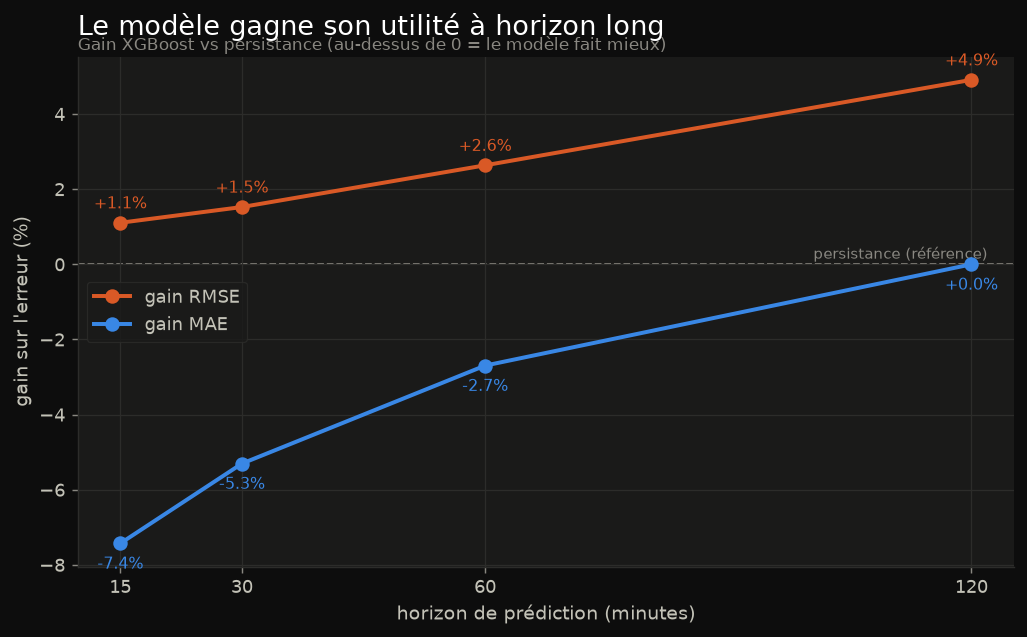
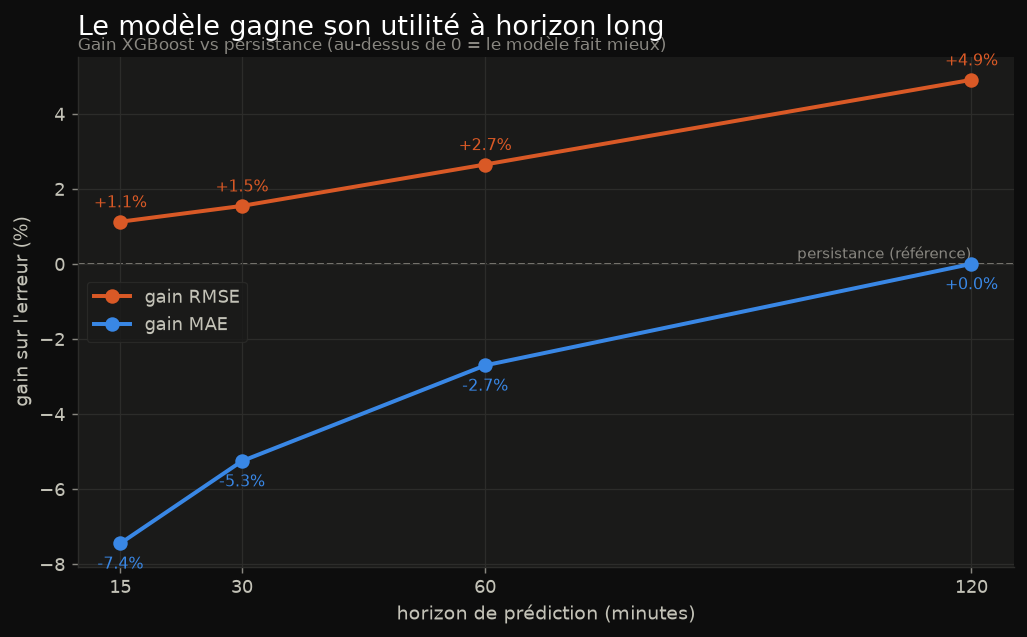
feat(ml): versioned metrics files, lift curve drawn from metrics_xgb.json
train_baseline.py and train_xgb.py now write ml/results/metrics_<run>.json
(dataset size, period, split parameters, per-horizon MAE/RMSE) next to their
console output; both files are versioned. make_lift() reads the XGBoost file
instead of sixteen hard-coded constants, and fails clearly when it is missing.
Values recomputed on the July dataset are identical to the July run.

diff --git a/ml/train_xgb.py b/ml/train_xgb.py
@@ -6,6 +6,9 @@ baseline (common.py), et on affiche le gain vs persistance. Un modèle qui ne ba
 nettement la baseline ne mérite pas la prod (§6.1).
 
 Sérialisation : ml/models/xgb_<cible>.json (format natif XGBoost, rechargé par predict.py).
+Métriques     : ml/results/metrics_xgb.json (versionné ; source du tableau et de la courbe
+                de lift du README via docs/make_figures.py). La persistance y est recalculée
+                sur le MÊME jeu de test que le modèle -> comparaison sur les mêmes lignes.
 
 Lancement :
   python ml/train_xgb.py                                       # dataset réel
@@ -19,7 +22,15 @@ import pandas as pd
 from xgboost import XGBRegressor
 
 sys.path.insert(0, str(Path(__file__).resolve().parent))
-from common import FEATURE_COLS, HORIZONS, mae_rmse, temporal_split   # noqa: E402
+from common import (  # noqa: E402
+    FEATURE_COLS,
+    HORIZONS,
+    RESULTS_DIR,
+    dataset_summary,
+    mae_rmse,
+    temporal_split,
+    write_metrics,
+)
 
 DATA_DEFAULT = Path(__file__).resolve().parent / "data" / "dataset.parquet"
 MODELS_DIR = Path(__file__).resolve().parent / "models"
@@ -39,13 +50,16 @@ XGB_PARAMS = dict(
 def main() -> None:
     ap = argparse.ArgumentParser()
     ap.add_argument("--data", default=str(DATA_DEFAULT))
+    ap.add_argument("--results-dir", default=str(RESULTS_DIR))
     a = ap.parse_args()
+    rows = []                                        # une entrée par horizon -> JSON
 
     df = pd.read_parquet(a.data)
     MODELS_DIR.mkdir(parents=True, exist_ok=True)
     print(f"[XGB] dataset : {len(df):,} lignes | {df['ts'].min()} -> {df['ts'].max()}\n")
 
-    header = f"{'horizon':<8}{'MAE_base':>10}{'MAE_xgb':>10}{'RMSE_base':>11}{'RMSE_xgb':>10}{'gain_MAE':>10}"
+    header = (f"{'horizon':<8}{'MAE_base':>10}{'MAE_xgb':>10}"
+              f"{'RMSE_base':>11}{'RMSE_xgb':>10}{'gain_MAE':>10}")
     print(header)
     print("-" * len(header))
 
@@ -65,15 +79,26 @@ def main() -> None:
         mae_x, rmse_x = mae_rmse(test[col], pred)
         mae_b, rmse_b = mae_rmse(test[col], test["bikes"])   # baseline persistance
         gain = 100 * (mae_b - mae_x) / mae_b                 # % d'amélioration du MAE
+        gain_rmse = 100 * (rmse_b - rmse_x) / rmse_b
 
         print(f"{label:<8}{mae_b:>10.3f}{mae_x:>10.3f}{rmse_b:>11.3f}{rmse_x:>10.3f}{gain:>9.1f}%")
+        rows.append({"horizon": label, "target": col,
+                     "n_train": int(len(train)), "n_test": int(len(test)),
+                     "mae_persistence": round(float(mae_b), 4),
+                     "rmse_persistence": round(float(rmse_b), 4),
+                     "mae_xgb": round(float(mae_x), 4), "rmse_xgb": round(float(rmse_x), 4),
+                     "gain_mae_pct": round(float(gain), 2),
+                     "gain_rmse_pct": round(float(gain_rmse), 2)})
 
         # Sérialisation du modèle (format natif XGBoost).
         out = MODELS_DIR / f"xgb_{col}.json"
         model.save_model(out)
         print(f"         -> modèle sauvegardé : {out}")
 
-    print("\n[XGB] gain_MAE > 0 = XGBoost bat la persistance. Négatif/nul = inutile (§6.1).")
+    out = write_metrics("xgb", dataset_summary(df, a.data), rows, a.results_dir,
+                        extra={"model": "XGBRegressor", "params": XGB_PARAMS})
+    print(f"\n[XGB] métriques écrites : {out}")
+    print("[XGB] gain_MAE > 0 = XGBoost bat la persistance. Négatif/nul = inutile (§6.1).")
 
 
 if __name__ == "__main__":

diff --git a/docs/make_figures.py b/docs/make_figures.py
@@ -6,7 +6,8 @@ Sorties :
 
 Prérequis : conteneur postgres démarré (docker compose up -d postgres), matplotlib installé
 (pip install matplotlib — dépendance d'ASSET, pas de runtime). Lancement :
-  python docs/make_figures.py
+  python docs/make_figures.py          # les deux figures
+  python docs/make_figures.py lift     # courbe de lift seule (lit ml/results/, sans Postgres)
 """
 import json
 import os
@@ -23,6 +24,7 @@ from matplotlib.colors import LinearSegmentedColormap  # noqa: E402
 
 ROOT = Path(__file__).resolve().parent.parent
 DOCS = ROOT / "docs"
+METRICS = ROOT / "ml" / "results" / "metrics_xgb.json"   # écrit par ml/train_xgb.py
 load_dotenv(ROOT / ".env")
 
 # --- Thème sombre (aligné sur la palette dataviz + le dashboard Streamlit) ---
@@ -87,13 +89,21 @@ def make_map() -> None:
     print(f"[FIG] {out} ({len(fill)} stations)")
 
 
-def make_lift() -> None:
-    """Courbe de lift : gain % du XGBoost sur la persistance, par horizon."""
-    horizon = np.array([15, 30, 60, 120])
-    mae_base = np.array([0.754, 1.188, 1.818, 2.764])
-    mae_xgb = np.array([0.810, 1.251, 1.867, 2.764])
-    rmse_base = np.array([1.446, 2.098, 3.035, 4.419])
-    rmse_xgb = np.array([1.430, 2.066, 2.955, 4.202])
+def make_lift(metrics_path: Path = METRICS) -> None:
+    """Courbe de lift : gain % du XGBoost sur la persistance, par horizon.
+
+    Source UNIQUE des chiffres : ml/results/metrics_xgb.json, écrit par ml/train_xgb.py
+    (versionné). Aucune valeur en dur ici : la figure et le tableau du README lisent le
+    même fichier, donc ne peuvent pas diverger.
+    """
+    if not metrics_path.exists():
+        raise SystemExit(f"[FIG] {metrics_path} manquant : lancer `python ml/train_xgb.py`")
+    rows = json.loads(metrics_path.read_text(encoding="utf-8"))["horizons"]
+    horizon = np.array([int(r["horizon"].removeprefix("t+")) for r in rows])
+    mae_base = np.array([r["mae_persistence"] for r in rows])
+    mae_xgb = np.array([r["mae_xgb"] for r in rows])
+    rmse_base = np.array([r["rmse_persistence"] for r in rows])
+    rmse_xgb = np.array([r["rmse_xgb"] for r in rows])
     gain_mae = 100 * (mae_base - mae_xgb) / mae_base
     gain_rmse = 100 * (rmse_base - rmse_xgb) / rmse_base
 
@@ -101,7 +111,8 @@ def make_lift() -> None:
     fig.patch.set_facecolor(PAGE)
     ax.set_facecolor(SURFACE)
     ax.axhline(0, color=MUTED, lw=1, ls="--", zorder=1)      # persistance = référence
-    ax.text(122, 0.15, "persistance (référence)", color=MUTED, fontsize=8.5, ha="right")
+    ax.text(horizon[-1], 0.15, "persistance (référence)", color=MUTED, fontsize=8.5,
+            ha="right")
     ax.plot(horizon, gain_rmse, "-o", color=ORANGE, lw=2.2, ms=7, label="gain RMSE", zorder=3)
     ax.plot(horizon, gain_mae, "-o", color=BLUE, lw=2.2, ms=7, label="gain MAE", zorder=3)
     for x, y in zip(horizon, gain_rmse):
@@ -130,9 +141,13 @@ def make_lift() -> None:
     fig.tight_layout()
     out = DOCS / "lift_curve.png"
     fig.savefig(out, facecolor=PAGE, bbox_inches="tight")
-    print(f"[FIG] {out}")
+    print(f"[FIG] {out} (source : {metrics_path.relative_to(ROOT)})")
 
 
 if __name__ == "__main__":
-    make_map()
-    make_lift()
+    import sys
+    only = sys.argv[1:]                    # ex. `python docs/make_figures.py lift` (sans Postgres)
+    if not only or "map" in only:
+        make_map()
+    if not only or "lift" in only:
+        make_lift()

diff --git a/ml/common.py b/ml/common.py
@@ -3,6 +3,10 @@
 Centralisé pour GARANTIR que la baseline et tous les modèles utilisent EXACTEMENT le même
 découpage train/test et la même liste de features -> comparaison honnête (§6.4).
 """
+import json
+from datetime import datetime, timezone
+from pathlib import Path
+
 import pandas as pd
 from sklearn.metrics import mean_absolute_error, root_mean_squared_error
 
@@ -42,7 +46,7 @@ def temporal_split(df: pd.DataFrame, test_fraction: float = TEST_FRACTION,
     """
     df = df.sort_values("ts")
     cut = df["ts"].quantile(1 - test_fraction)
-    gap = pd.Timedelta(f"{gap_min}min")
+    gap = pd.Timedelta(minutes=gap_min)
     train = df[df["ts"] <= cut - gap]
     test = df[df["ts"] > cut]
     return train, test, cut
@@ -51,3 +55,45 @@ def temporal_split(df: pd.DataFrame, test_fraction: float = TEST_FRACTION,
 def mae_rmse(y_true, y_pred):
     """Renvoie (MAE, RMSE) — §6.2."""
     return mean_absolute_error(y_true, y_pred), root_mean_squared_error(y_true, y_pred)
+
+
+# --- Métriques versionnables (ml/results/metrics_<run>.json) ------------------
+# Les scripts d'entraînement affichent leurs métriques ET les écrivent ici : ce fichier
+# est l'unique source des chiffres du README (tableau + courbe de lift, docs/make_figures.py).
+RESULTS_DIR = Path(__file__).resolve().parent / "results"
+
+
+def dataset_summary(df: pd.DataFrame, path) -> dict:
+    """Décrit le dataset évalué (taille, stations, période) pour la traçabilité."""
+    return {
+        "file": Path(path).name,
+        "n_rows": int(len(df)),
+        "n_stations": int(df["station_id"].nunique()),
+        "period_start": str(df["ts"].min()),
+        "period_end": str(df["ts"].max()),
+    }
+
+
+def write_metrics(run: str, dataset: dict, horizons: list[dict],
+                  results_dir=RESULTS_DIR, extra: dict | None = None) -> Path:
+    """Écrit metrics_<run>.json (format commun baseline / xgb) et renvoie son chemin.
+
+    `horizons` : une entrée par horizon, au minimum {horizon, n_test, mae_persistence,
+    rmse_persistence} ; les modèles y ajoutent leurs propres colonnes (mae_xgb, gain_...).
+    Le split (TEST_FRACTION, GAP_MIN) est enregistré pour qu'un lecteur sache sur quoi
+    les chiffres reposent : un embargo différent = des chiffres non comparables.
+    """
+    results_dir = Path(results_dir)
+    results_dir.mkdir(parents=True, exist_ok=True)
+    payload = {
+        "run": run,
+        "generated_at": datetime.now(timezone.utc).isoformat(timespec="seconds"),
+        "dataset": dataset,
+        "split": {"test_fraction": TEST_FRACTION, "gap_min": GAP_MIN, "chronological": True},
+        "features": FEATURE_COLS,
+        **(extra or {}),
+        "horizons": horizons,
+    }
+    out = results_dir / f"metrics_{run}.json"
+    out.write_text(json.dumps(payload, indent=2) + "\n", encoding="utf-8")
+    return out

diff --git a/ml/train_baseline.py b/ml/train_baseline.py
@@ -7,6 +7,8 @@ la battre nettement pour mériter d'exister (§6.1). Split temporel + embargo da
 Lancement :
   python ml/train_baseline.py                                     # dataset réel
   python ml/train_baseline.py --data ml/data/dataset_synth.parquet  # smoke-test
+
+Sortie : ml/results/metrics_baseline.json (métriques versionnées, source du README).
 """
 import argparse
 import sys
@@ -15,7 +17,14 @@ from pathlib import Path
 import pandas as pd
 
 sys.path.insert(0, str(Path(__file__).resolve().parent))   # pour importer common
-from common import HORIZONS, mae_rmse, temporal_split       # noqa: E402
+from common import (  # noqa: E402
+    HORIZONS,
+    RESULTS_DIR,
+    dataset_summary,
+    mae_rmse,
+    temporal_split,
+    write_metrics,
+)
 
 DATA_DEFAULT = Path(__file__).resolve().parent / "data" / "dataset.parquet"
 
@@ -23,7 +32,9 @@ DATA_DEFAULT = Path(__file__).resolve().parent / "data" / "dataset.parquet"
 def main() -> None:
     ap = argparse.ArgumentParser()
     ap.add_argument("--data", default=str(DATA_DEFAULT))
+    ap.add_argument("--results-dir", default=str(RESULTS_DIR))
     a = ap.parse_args()
+    rows = []                                        # une entrée par horizon -> JSON
 
     df = pd.read_parquet(a.data)
     print(f"[BASELINE] dataset : {len(df):,} lignes | "
@@ -44,8 +55,13 @@ def main() -> None:
         # Persistance : la prédiction EST l'état courant `bikes` (aucun apprentissage).
         mae, rmse = mae_rmse(test[col], test["bikes"])
         print(f"{label:<8}{len(test):>10,}{mae:>10.3f}{rmse:>10.3f}")
+        rows.append({"horizon": label, "target": col, "n_test": int(len(test)),
+                     "mae_persistence": round(float(mae), 4),
+                     "rmse_persistence": round(float(rmse), 4)})
 
-    print("\n[BASELINE] Rappel : un modele n'a de valeur que s'il BAT ces chiffres (SS6.1).")
+    out = write_metrics("baseline", dataset_summary(df, a.data), rows, a.results_dir)
+    print(f"\n[BASELINE] métriques écrites : {out}")
+    print("[BASELINE] Rappel : un modele n'a de valeur que s'il BAT ces chiffres (SS6.1).")
 
 
 if __name__ == "__main__":
